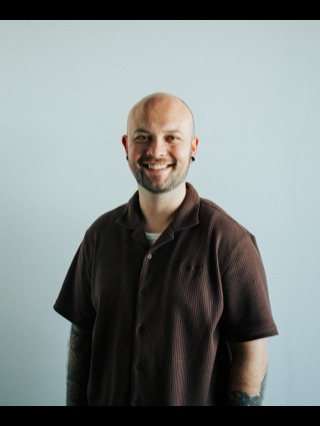
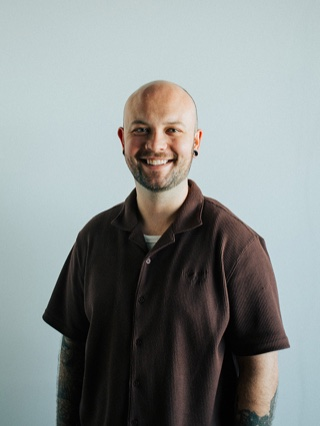
New contact photo, and fix the black bars on it
The previous source was 0.828 wide-to-tall and I cropped it with sips -c
to 3:4, which pads with black rather than cropping when the target is
taller than the source. The new source is already 3:4, so the variants are
a straight resample. Served as webp (8 KB) with a jpeg fallback.

diff --git a/main.js b/main.js
@@ -177,9 +177,12 @@
             '<span>Whether it\u2019s a brand that needs a look, a website that needs building, or just a rough idea you want to kick around, I\u2019d love to hear what you\u2019re working on.</span>' +
           '</p>' +
           '<div class="contact-panel__portrait">' +
-            '<img data-src="' + siteUrl('images/site/contact-320.jpg') + '" ' +
-              'data-srcset="' + siteUrl('images/site/contact-320.jpg') + ' 320w, ' + siteUrl('images/site/contact-480.jpg') + ' 480w" ' +
-              'sizes="160px" alt="Lachlan Sarv" decoding="async">' +
+            '<picture>' +
+              '<source type="image/webp" data-srcset="' + siteUrl('images/site/contact-320.webp') + ' 320w, ' + siteUrl('images/site/contact-480.webp') + ' 480w" sizes="160px">' +
+              '<img data-src="' + siteUrl('images/site/contact-320.jpg') + '" ' +
+                'data-srcset="' + siteUrl('images/site/contact-320.jpg') + ' 320w, ' + siteUrl('images/site/contact-480.jpg') + ' 480w" ' +
+                'sizes="160px" alt="Lachlan Sarv" decoding="async">' +
+            '</picture>' +
           '</div>' +
         '</div>' +
       '</div>' +
@@ -205,6 +208,11 @@
     function loadPanelImage() {
       const img = panel.querySelector('.contact-panel__portrait img');
       if (!img || !img.dataset.src) return;
+      // the webp source has to be set before the img, or the browser picks the jpeg
+      panel.querySelectorAll('.contact-panel__portrait source[data-srcset]').forEach((s) => {
+        s.srcset = s.dataset.srcset;
+        delete s.dataset.srcset;
+      });
       img.srcset = img.dataset.srcset;
       img.src = img.dataset.src;
       delete img.dataset.src;
